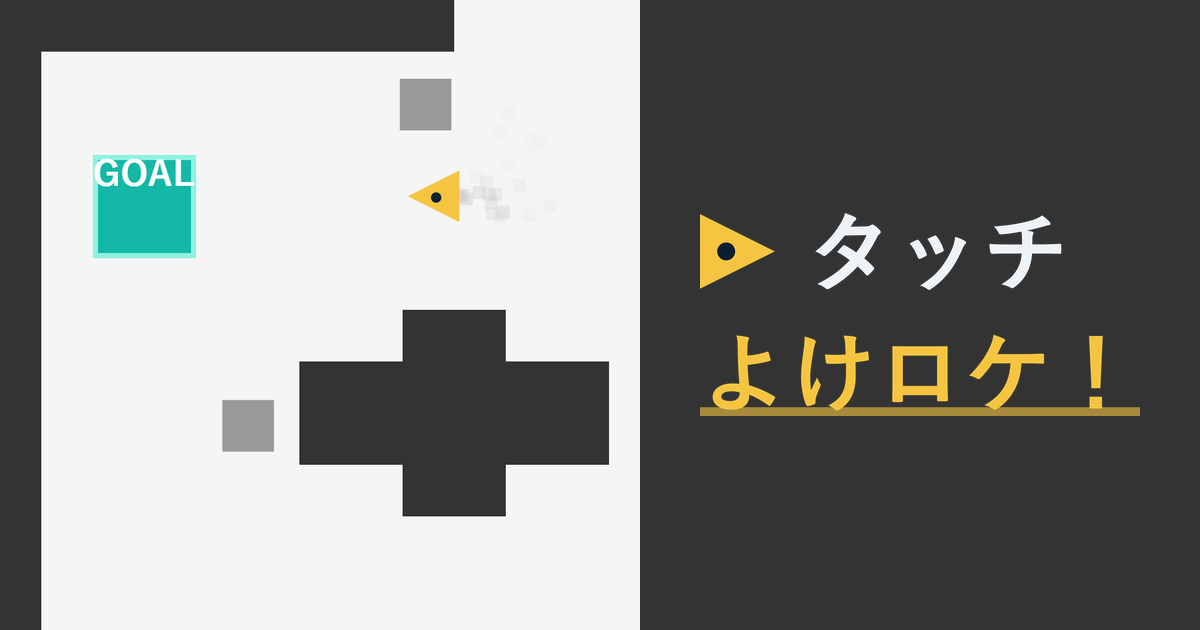
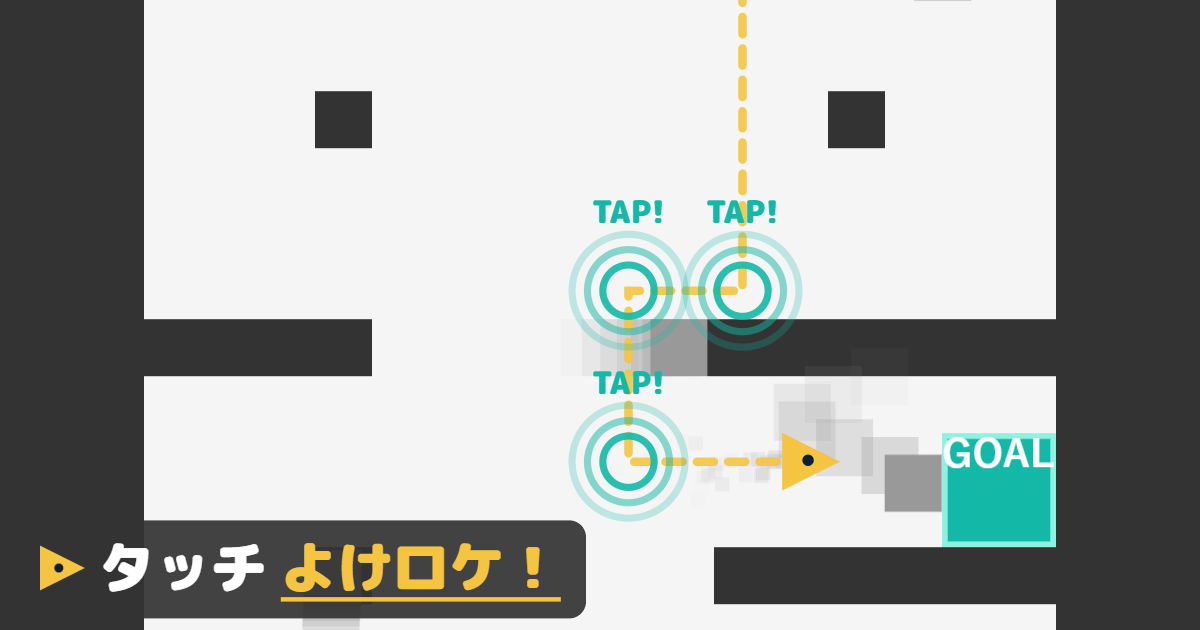
リメイク版サムネを追加・差し替え（さんすう/くじ/Fish/逃げ/よけロケ）、さんすうのリメイク公開年月を2026-09に

diff --git a/index.html b/index.html
@@ -278,10 +278,10 @@
             { id: "make21", title: "CHANGE & MAKE 21", desc: "-6～6のカードで手札と山札を交換して21を作ろう！", genre: "パズル", date: "2026-01", img: "linkcard_make21.png" },
             { id: "ryote", title: "両手でディフェンス", desc: "両手で左右のバーを操作して敵にボールをぶつけよう！", genre: "アクション", date: "2025-12", img: "linkcard_ryote.png" },
             { id: "gcp", title: "消して100ぐちぱ！", desc: "ぐちぱを繋げて目指せ100ぐちぱ！", genre: "パズル", date: "2025-11", img: "linkcard_gcp.png" },
-            { id: "nige", title: "１分逃げて！", desc: "迫りくる攻撃から１分間逃げ切って！", genre: "アクション", date: "2025-10", img: "linkcard_nige.png", remake: true, remakeDate: "2026-10" },
-            { id: "fish", title: "Fish and Chips", desc: "マネキンを飛ばしてFishとChipをGetしよう", genre: "アクション", engine: "Unity", date: "2025-09", img: "linkcard_fish.png", remake: true, remakeDate: "2026-10" },
-            { id: "kuji", title: "豪運くじびき", desc: "1/1024の当たりを引こう。経験値で強化だ！", genre: "その他", date: "2025-08", img: "linkcard_kuji.png", remake: true, remakeDate: "2026-10" },
-            { id: "sansu", title: "いい加減さんすう", desc: "数字を計算してゴールと同じ数字をつくろう！", genre: "パズル", date: "2025-07", img: "linkcard_sansu.png", remake: true, remakeDate: "2026-10" },
+            { id: "nige", title: "１分逃げて！", desc: "迫りくる攻撃から１分間逃げ切って！", genre: "アクション", date: "2025-10", img: "linkcard_nige.png", remakeImg: "linkcard_nige_remake.png", remake: true, remakeDate: "2026-10" },
+            { id: "fish", title: "Fish and Chips", desc: "マネキンを飛ばしてFishとChipをGetしよう", genre: "アクション", engine: "Unity", date: "2025-09", img: "linkcard_fish.png", remakeImg: "linkcard_fish_remake.png", remake: true, remakeDate: "2026-10" },
+            { id: "kuji", title: "豪運くじびき", desc: "1/1024の当たりを引こう。経験値で強化だ！", genre: "その他", date: "2025-08", img: "linkcard_kuji.png", remakeImg: "linkcard_kuji_remake.png", remake: true, remakeDate: "2026-10" },
+            { id: "sansu", title: "いい加減さんすう", desc: "数字を計算してゴールと同じ数字をつくろう！", genre: "パズル", date: "2025-07", img: "linkcard_sansu.png", remakeImg: "linkcard_sansu_remake.png", remake: true, remakeDate: "2026-09" },
             { id: "yokeroke", title: "タッチ★よけロケ！", desc: "タッチで避けてゴールを目指そう！", genre: "アクション", date: "2025-06", img: "linkcard_yokerocket.png", remakeImg: "linkcard_yokerocket_remake.png", remake: true, remakeDate: "2026-09" },
             { id: "ogiyahagi", title: "荻や萩-OgiYaHagi-", desc: "OGIやHAGIを仕分けよう。決めろOGIYAHAGI！", genre: "アクション", date: "2025-05", img: "linkcard_ogiyahagi.png", remake: true, remakeDate: "2026-09" },
             { id: "plus5", title: "足して５！～または同じ数字で消すパズル～", desc: "２つの数字を組み合わせて、全消しを狙おう！", genre: "パズル", date: "2025-04", img: "linkcard_plus5.png", remakeImg: "linkcard_plus5_remake.png", remake: true, remakeDate: "2026-09" },
